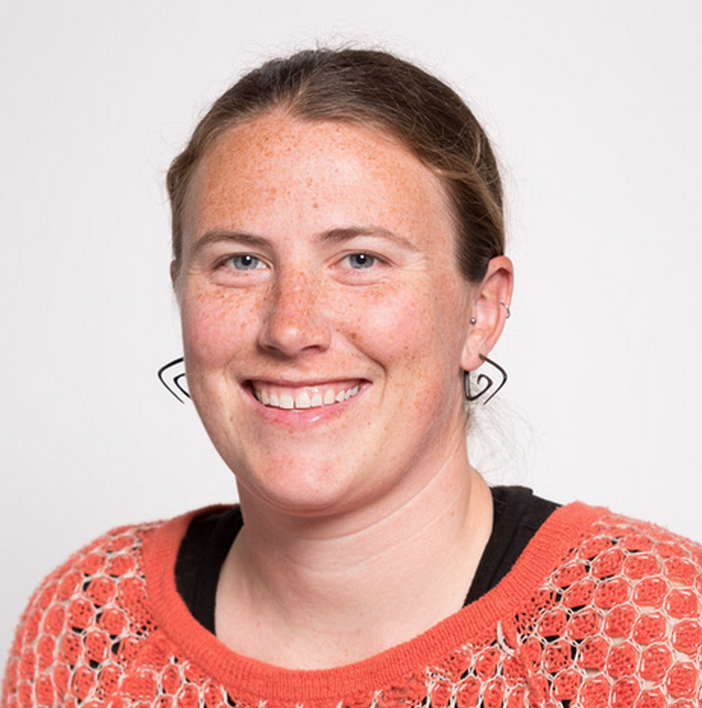
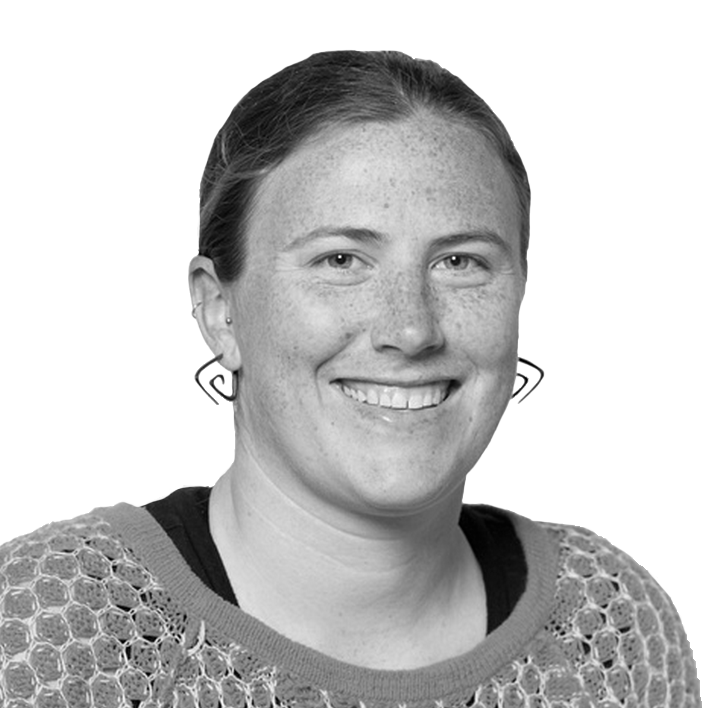
style a lot

diff --git a/source/stylesheets/all.css.scss b/source/stylesheets/all.css.scss
@@ -1,0 +1,69 @@
+@import "normalize";
+@import "stylesheets/semantic";
+@import url(https://fonts.googleapis.com/css?family=Amatic+SC:400,700);
+
+@charset "utf-8";
+
+$orange: #dd6126;
+$purple: #290823;
+$green: #05756f;
+$display-font: 'Amatic SC';
+
+body {
+  background: url("/images/background.png") center/100%;
+}
+
+.ui.menu {
+  .item {
+    font-family: $display-font;
+    font-size: 2em;
+    color: $purple;
+    font-weight: bold;
+    padding: 0px 20px 4px 20px !important;
+  }
+}
+
+.ui.secondary.pointing.menu .active.item {
+  border-image: url("/images/line.svg") 0 0 10 0 repeat;
+  border-image-width: 12px;
+}
+
+.ui.secondary.pointing.menu {
+  border: none;
+}
+
+h1,h3 {
+  font-family: $display-font;
+}
+
+h3 {
+  font-weight: 700;
+  font-size: 2em;
+  color: $green;
+  letter-spacing: 0.75px;
+  margin-top: -8px;
+}
+
+h1 {
+  font-size: 4em;
+  color: $orange;
+  letter-spacing: 1px;
+}
+
+.headshot {
+  background: url("/images/headshot.png") no-repeat bottom left/35%;
+}
+
+.column.w400p {
+  max-width: 400px;
+}
+
+i[class*="fa-"] {
+  font-size: 200%;
+  color: #05756f;
+}
+
+a:hover, a:active, i[class*="fa-"]:hover, i[class*="fa-"]:active {
+  color: $orange;
+}
+
